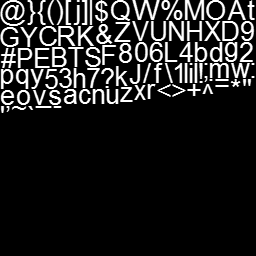
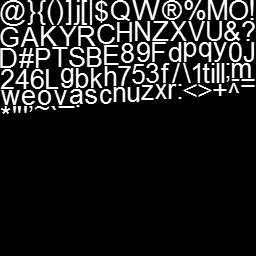
oprava chyb textu (okrem viditelnosti na bielom podklade)

Changed region(s): [[0.0, 0.0, 1.0, 0.4688]]

diff --git a/Kocka/Text2D.cs b/Kocka/Text2D.cs
@@ -13,6 +13,16 @@ using OpenTK.Graphics.OpenGL;
 
 namespace Kocka
 {
+    struct CharacterProperties
+    {
+        public int x;
+        public int y;
+        public int width;
+        public int height;
+        public int xoffset;
+        public int yoffset;
+    };
+
     class Text2D
     {
         private Shaders.Shader VertexShader, FragmentShader;
@@ -27,7 +37,7 @@ namespace Kocka
         private List<Vector3> vertices;
         private List<Vector2> uvs;
         //slovnik na ulozenie polohy a velkosti jednotlivych pismen
-        private Dictionary<char, Vector4> charMap;
+        private Dictionary<char, CharacterProperties> charMap;
 
         public Text2D(int width, int height)
         {
@@ -35,7 +45,7 @@ namespace Kocka
             this.height = height;
             modelViewMatrix = Matrix4.LookAt(0.0f, 0.0f, 1.0f, 0.0f, 0.0f, 0.0f, 0.0f, 1.0f, 0.0f);
             projectionMatrix = Matrix4.CreateOrthographic(width, height, 1, 100);
-            charMap = new Dictionary<char, Vector4>();
+            charMap = new Dictionary<char, CharacterProperties>();
 
             GL.GenBuffers(1, out VertexBufferID);
             GL.GenBuffers(1, out UVBufferID);
@@ -114,13 +124,17 @@ namespace Kocka
                 if (fnt[i].StartsWith("char id="))
                 {
                     string[] line = fnt[i].Split(separator2);
+                    CharacterProperties chp = new CharacterProperties();
+
                     char id = (char)int.Parse(line[1].Substring(0, line[1].IndexOf(" ")));
-                    int x = int.Parse(line[2].Substring(0, line[2].IndexOf(" ")));
-                    int y = int.Parse(line[3].Substring(0, line[3].IndexOf(" ")));
-                    int w = int.Parse(line[4].Substring(0, line[4].IndexOf(" ")));
-                    int h = int.Parse(line[5].Substring(0, line[5].IndexOf(" ")));
+                    chp.x = int.Parse(line[2].Substring(0, line[2].IndexOf(" ")));
+                    chp.y = int.Parse(line[3].Substring(0, line[3].IndexOf(" ")));
+                    chp.width = int.Parse(line[4].Substring(0, line[4].IndexOf(" ")));
+                    chp.height = int.Parse(line[5].Substring(0, line[5].IndexOf(" ")));
+                    chp.xoffset = int.Parse(line[6].Substring(0, line[6].IndexOf(" ")));
+                    chp.yoffset = int.Parse(line[7].Substring(0, line[7].IndexOf(" ")));
                     if (!charMap.ContainsKey(id))
-                        charMap.Add(id, new Vector4(x, y, w, h));
+                        charMap.Add(id, chp);
                 }
             }
             sr.Close();
@@ -138,6 +152,7 @@ namespace Kocka
             {
                 float dx = dic[arr[j]].X;
                 float dy = dic[arr[j]].Y;
+
                 float size_x = dic[arr[j]].Z;
                 float size_y = dic[arr[j]].W;
                 string text = arr[j];
@@ -146,15 +161,17 @@ namespace Kocka
                 {
                     if (charMap.ContainsKey(text[i]))
                     {
-                        float char_x = charMap[text[i]].X;
-                        float char_y = charMap[text[i]].Y;
-                        float char_w = charMap[text[i]].Z;
-                        float char_h = charMap[text[i]].W;
+                        dx += charMap[text[i]].xoffset * size_x;
+                        dy = dic[arr[j]].Y - charMap[text[i]].yoffset * size_y;
+                        float char_x = charMap[text[i]].x;
+                        float char_y = charMap[text[i]].y;
+                        float char_w = charMap[text[i]].width;
+                        float char_h = charMap[text[i]].height;
 
-                        Vector3 vert_DownLeft = new Vector3(dx, dy, 0.0f);
-                        Vector3 vert_DownRight = new Vector3(dx + size_x * char_w, dy, 0.0f);
-                        Vector3 vert_UpRight = new Vector3(dx + size_x * char_w, dy + size_y * char_h, 0.0f);
-                        Vector3 vert_UpLeft = new Vector3(dx, dy + size_y * char_h, 0.0f);
+                        Vector3 vert_UpLeft = new Vector3(dx, dy, 0.0f);
+                        Vector3 vert_UpRight = new Vector3(dx + size_x * char_w, dy, 0.0f);
+                        Vector3 vert_DownRight = new Vector3(dx + size_x * char_w, dy - size_y * char_h, 0.0f);
+                        Vector3 vert_DownLeft = new Vector3(dx, dy - size_y * char_h, 0.0f);
                         dx += size_x * char_w;
 
                         vertices.Add(vert_UpLeft);
@@ -195,10 +212,8 @@ namespace Kocka
 
             if (pravda)
             {
-                //spMain.UseProgram();
                 GL.BindVertexArray(vaoID);
                 GL.ActiveTexture(TextureUnit.Texture0);
-                GL.BindTexture(TextureTarget.Texture2D,TextureID);
 
                 //vertices
                 GL.BindBuffer(BufferTarget.ArrayBuffer, VertexBufferID);
@@ -210,14 +225,13 @@ namespace Kocka
                 GL.BufferData(BufferTarget.ArrayBuffer, (IntPtr)(uvs.Count * Vector2.SizeInBytes), uvs.ToArray(), BufferUsageHint.StaticDraw);
                 GL.VertexAttribPointer(1, 2, VertexAttribPointerType.Float, false, 0, 0);
 
-                //spMain.UseProgram(0);
                 pocet = vertices.Count();
                 vertices.Clear();
                 uvs.Clear();
             }
         }
 
-        //string s - co sa ma napisat; (x,y) kde to zacina (lavy dolny), size_x,size_y - ake velke
+        //string s --> co sa ma napisat; (x,y) kde to zacina (lavy horny), size_x,size_y - ake velke
         private void LoadText2D(string text, int x, int y, int size_x, int size_y)
         {
             bool pravda = true;
@@ -230,15 +244,17 @@ namespace Kocka
             {
                 if (charMap.ContainsKey(text[i]))
                 {
-                    float char_x = charMap[text[i]].X;
-                    float char_y = charMap[text[i]].Y;
-                    float char_w = charMap[text[i]].Z;
-                    float char_h = charMap[text[i]].W;
+                    dx += charMap[text[i]].xoffset * size_x;
+                    dy = y - charMap[text[i]].yoffset * size_y;
+                    float char_x = charMap[text[i]].x;
+                    float char_y = charMap[text[i]].y;
+                    float char_w = charMap[text[i]].width;
+                    float char_h = charMap[text[i]].height;
 
-                    Vector3 vert_DownLeft = new Vector3(dx, dy, 0.0f);
-                    Vector3 vert_DownRight = new Vector3(dx + size_x * char_w, dy, 0.0f);
-                    Vector3 vert_UpRight = new Vector3(dx + size_x * char_w, dy + size_y * char_h, 0.0f);
-                    Vector3 vert_UpLeft = new Vector3(dx, dy + size_y * char_h, 0.0f);
+                    Vector3 vert_UpLeft = new Vector3(dx, dy, 0.0f);
+                    Vector3 vert_UpRight = new Vector3(dx + size_x * char_w, dy, 0.0f);
+                    Vector3 vert_DownRight = new Vector3(dx + size_x * char_w, dy - size_y * char_h, 0.0f);
+                    Vector3 vert_DownLeft = new Vector3(dx, dy - size_y * char_h, 0.0f);
                     dx += size_x * char_w;
 
                     vertices.Add(vert_UpLeft);

diff --git a/Kocka/ColorScale.cs b/Kocka/ColorScale.cs
@@ -103,13 +103,14 @@ namespace Kocka
         private void SetText()
         {
             float len = max - min;
-            popis_dic.Add(min.ToString(), new Vector4(left-30.0f,bottom-barHeight, 0.7f, 0.7f));
-            popis_dic.Add((min + len * 0.25f).ToString(), new Vector4(left + 0.25f * length - 30.0f, bottom - barHeight, 0.7f, 0.7f));
-            popis_dic.Add((min + len * 0.5f).ToString(), new Vector4(left + 0.5f * length - 30.0f, bottom - barHeight, 0.7f, 0.7f));
-            popis_dic.Add((min + len * 0.75f).ToString(), new Vector4(left + 0.75f * length - 30.0f, bottom - barHeight, 0.7f, 0.7f));
-            popis_dic.Add(max.ToString(), new Vector4(left + length - 30.0f, bottom - barHeight, 0.7f, 0.7f));
-            popis_dic.Add("Pokusny_text_nepozna_medzery_a_pismena_ako_yjpq_pise_nepekne_aj_minus(-)", new Vector4(-width/2, height/2-20, 1, 1));
-            popis_dic.Add("Dalsia_chyba_je,_ze_nebude_vidiet_na_bielom_pozadi", new Vector4(-width / 2, -height / 2 +100, 1, 1));
+            popis_dic.Add(min.ToString(), new Vector4(left-30.0f,bottom, 0.7f, 0.7f));
+            popis_dic.Add((min + len * 0.25f).ToString(), new Vector4(left + 0.25f * length - 30.0f, bottom, 0.7f, 0.7f));
+            popis_dic.Add((min + len * 0.5f).ToString(), new Vector4(left + 0.5f * length - 30.0f, bottom , 0.7f, 0.7f));
+            popis_dic.Add((min + len * 0.75f).ToString(), new Vector4(left + 0.75f * length - 30.0f, bottom , 0.7f, 0.7f));
+            popis_dic.Add(max.ToString(), new Vector4(left + length - 30.0f, bottom , 0.7f, 0.7f));
+            popis_dic.Add("Text prebehol upravou, uz pozna medzery a pqkj- atd. pise normalne", new Vector4(-width/2, height/2-20, 1, 1));
+            popis_dic.Add("Viditelnost na bielom pozadi zrejme vyriesim dalsou", new Vector4(-width / 2, -height / 2 + 100, 1, 1));
+            popis_dic.Add("bitmapou s ciernymi pismenami na bielom podklade", new Vector4(-width / 2 +3, -height / 2 + 75, 0.7f, 0.7f));
             popis_txt.PrintText2D(popis_dic);
         }
 

diff --git a/Kocka/Surface.cs b/Kocka/Surface.cs
@@ -543,8 +543,6 @@ namespace Kocka
 
         public void DrawSurface()
         {
-           
-
             GL.BindVertexArray(VAO[0]);
             switch (WhatToDraw)
             {
